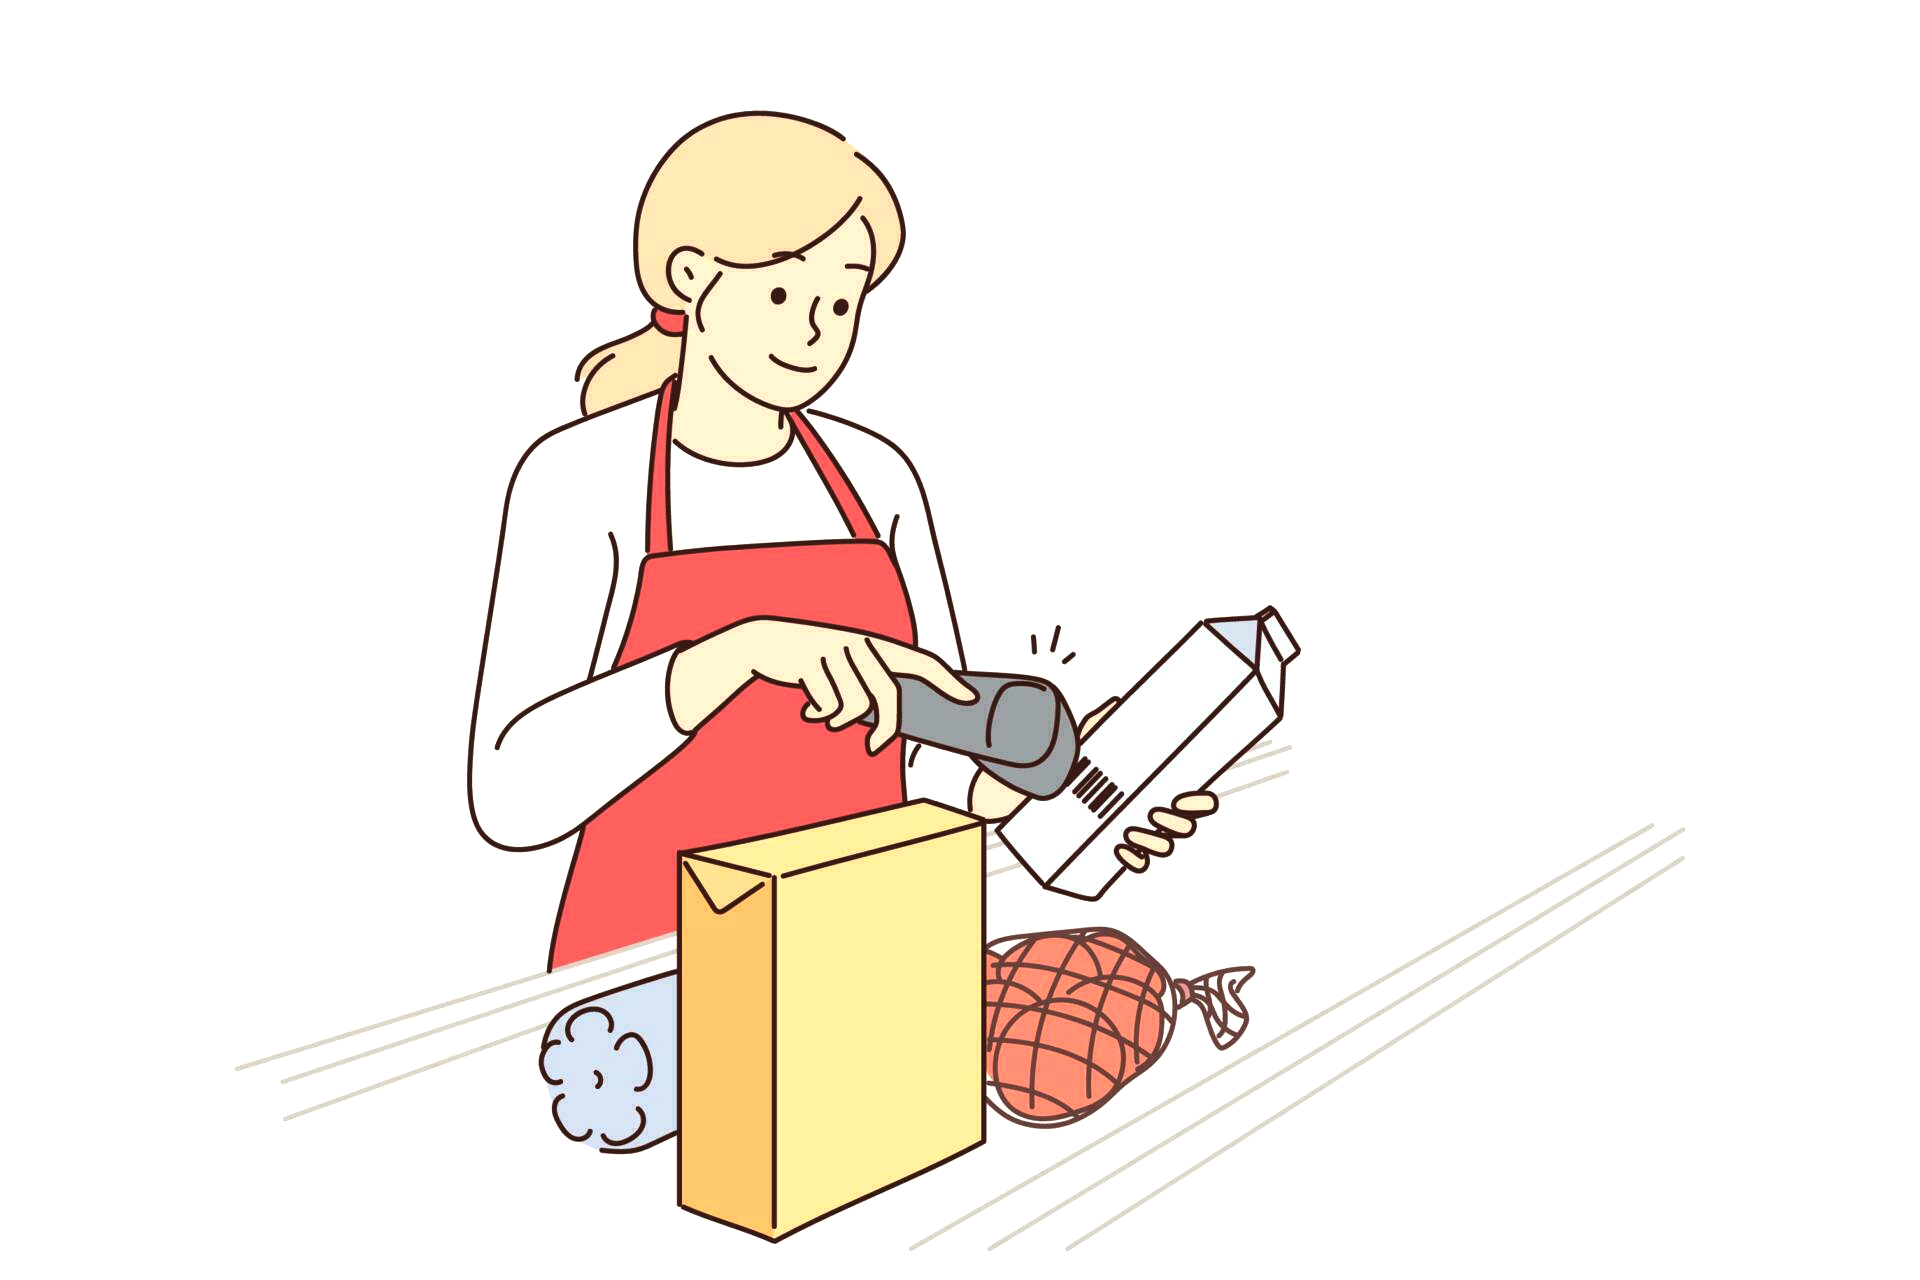
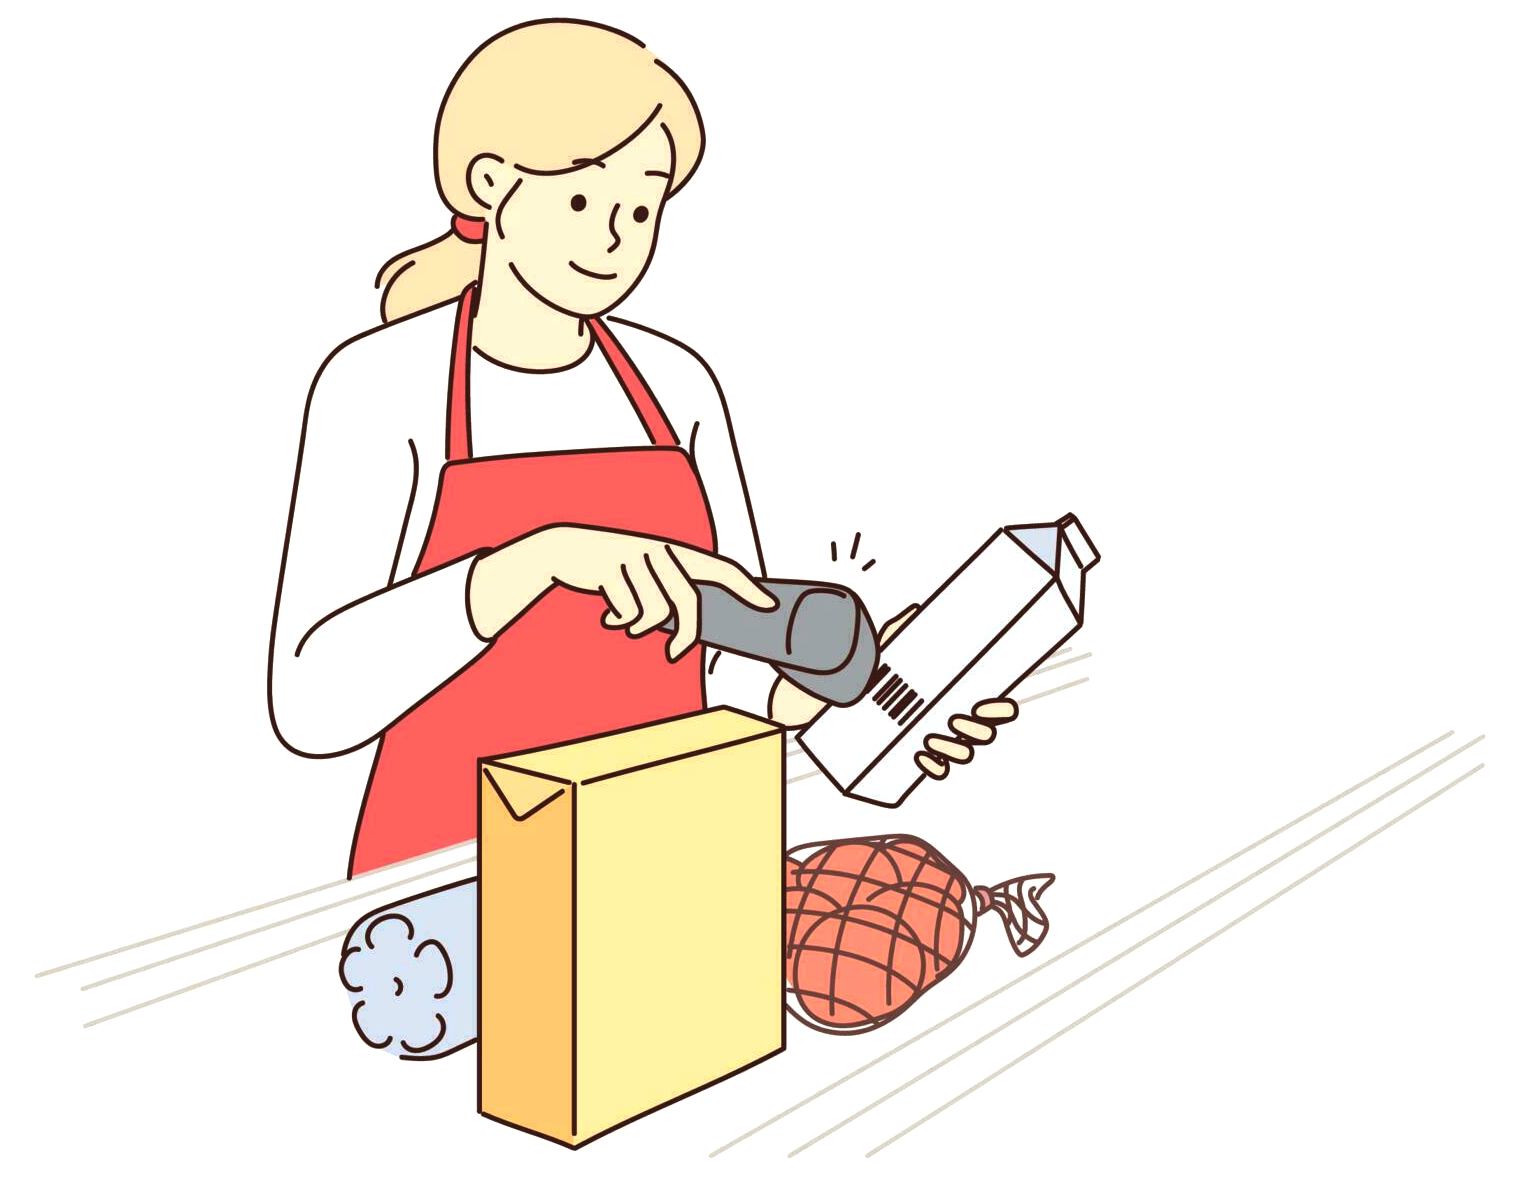
change color scheme to red, adjust image

diff --git a/frontend/src/styles.css b/frontend/src/styles.css
@@ -8,9 +8,9 @@ body {
   font-family: 'Be Vietnam Pro', sans-serif;
 }
 :root {
-  --primary-color: #605DC8;
-  --secondary-color: #8B89E6;
-  --accent-color: #e8e7fa;
+  --primary-color: #FF3F3F;
+  --secondary-color: #E6898B;
+  --accent-color: #F9E7E8;
   --shadow-color: #E8E8E8;
 }
 

diff --git a/frontend/src/app/checkout/checkout.component.css b/frontend/src/app/checkout/checkout.component.css
@@ -31,5 +31,5 @@ tr.empty img {
   display: block;
   margin-left: auto;
   margin-right: auto;
-  width: 80%;
+  width: 50%;
 }
